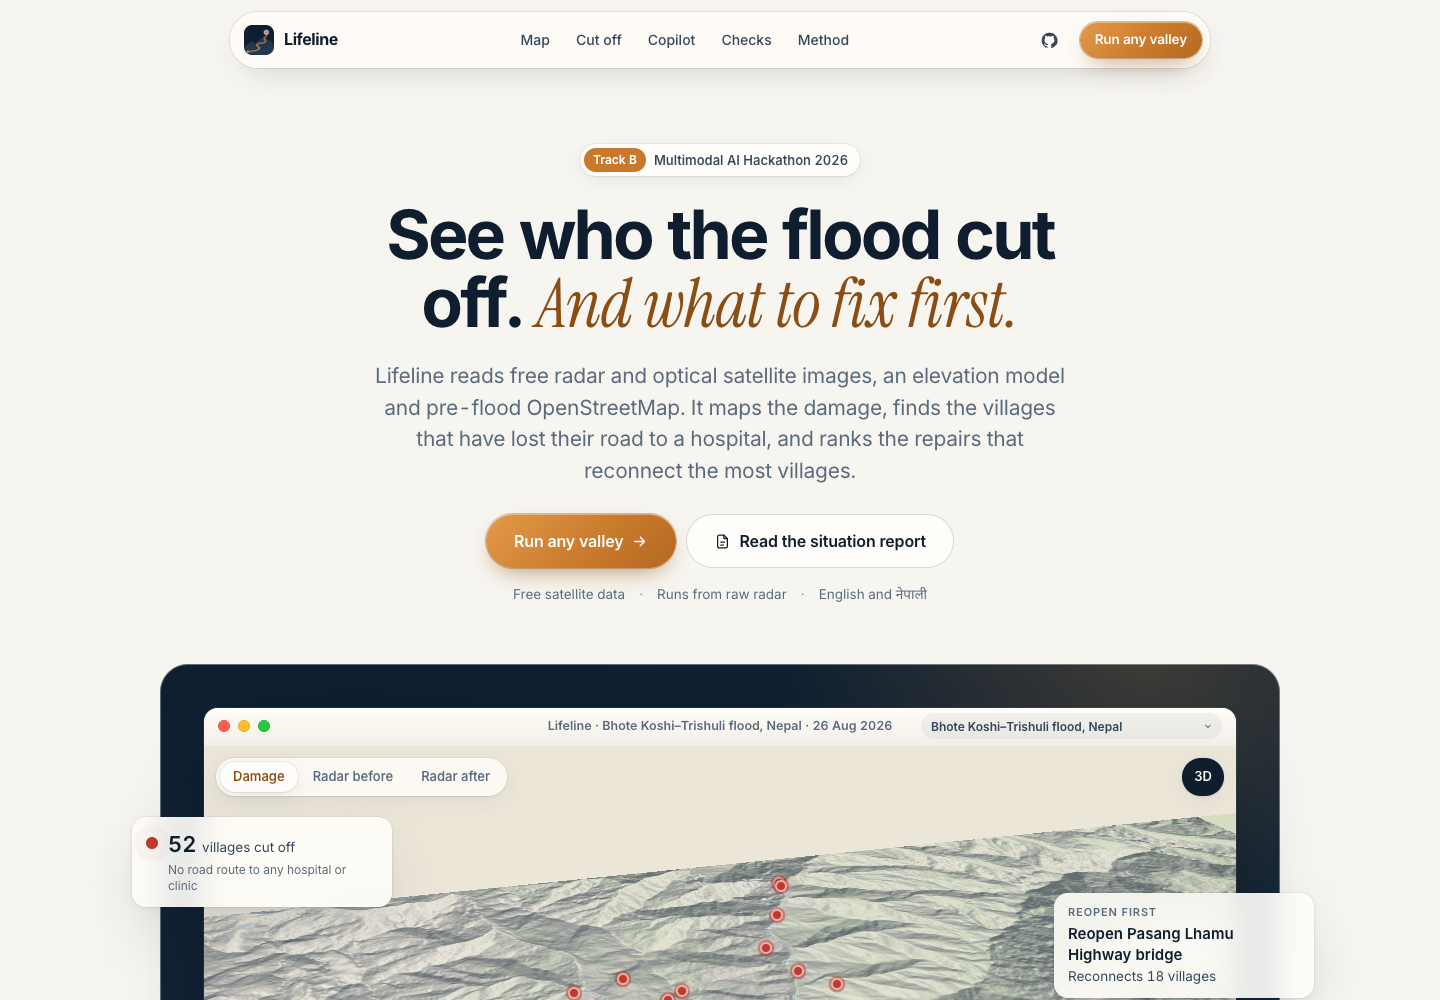
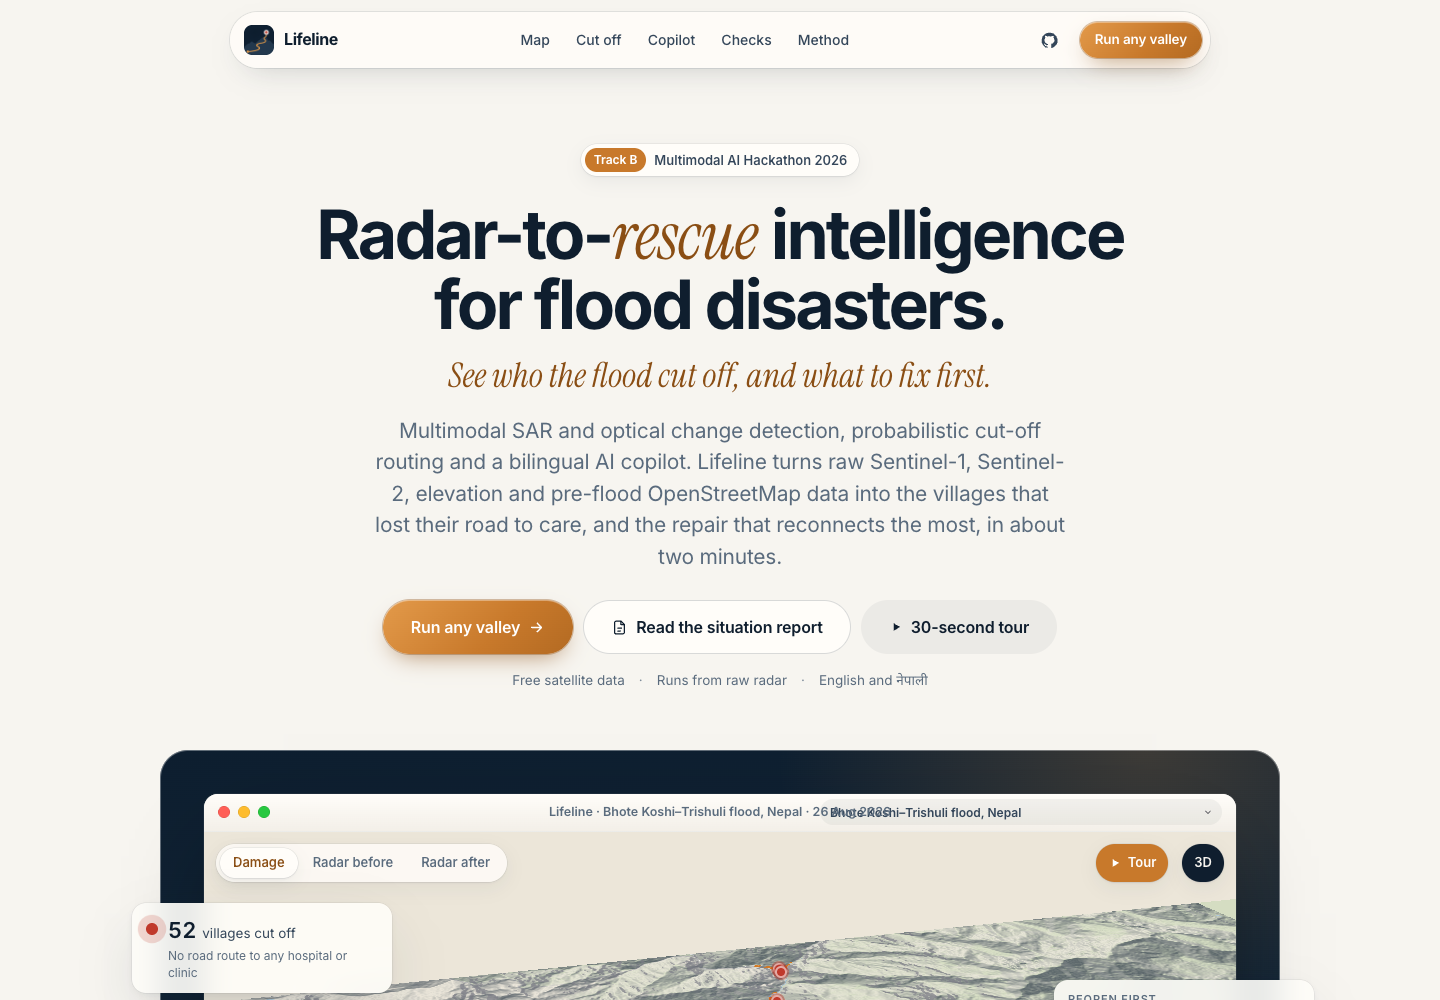
Fix hero map title overlap; new README screenshot

Changed region(s): [[0.0938, 0.186, 0.9062, 1.0], [0.4062, 0.155, 0.5312, 0.186], [0.5625, 0.155, 0.5938, 0.186]]

diff --git a/web/css/theme.css b/web/css/theme.css
@@ -134,3 +134,5 @@
 .btn-ghost svg{width:14px;height:14px}
 .hero-sub{margin:18px auto 0;max-width:760px;font-family:var(--font-serif);font-style:italic;font-size:clamp(24px,2.6vw,34px);line-height:1.2;color:var(--accent-ink)}
 .hero .lead{margin-top:18px}
+.hero-window .window__bar{gap:12px}
+.hero-window .window__title{flex:1;min-width:0;overflow:hidden;text-overflow:ellipsis;white-space:nowrap;text-align:left;padding-left:8px}
